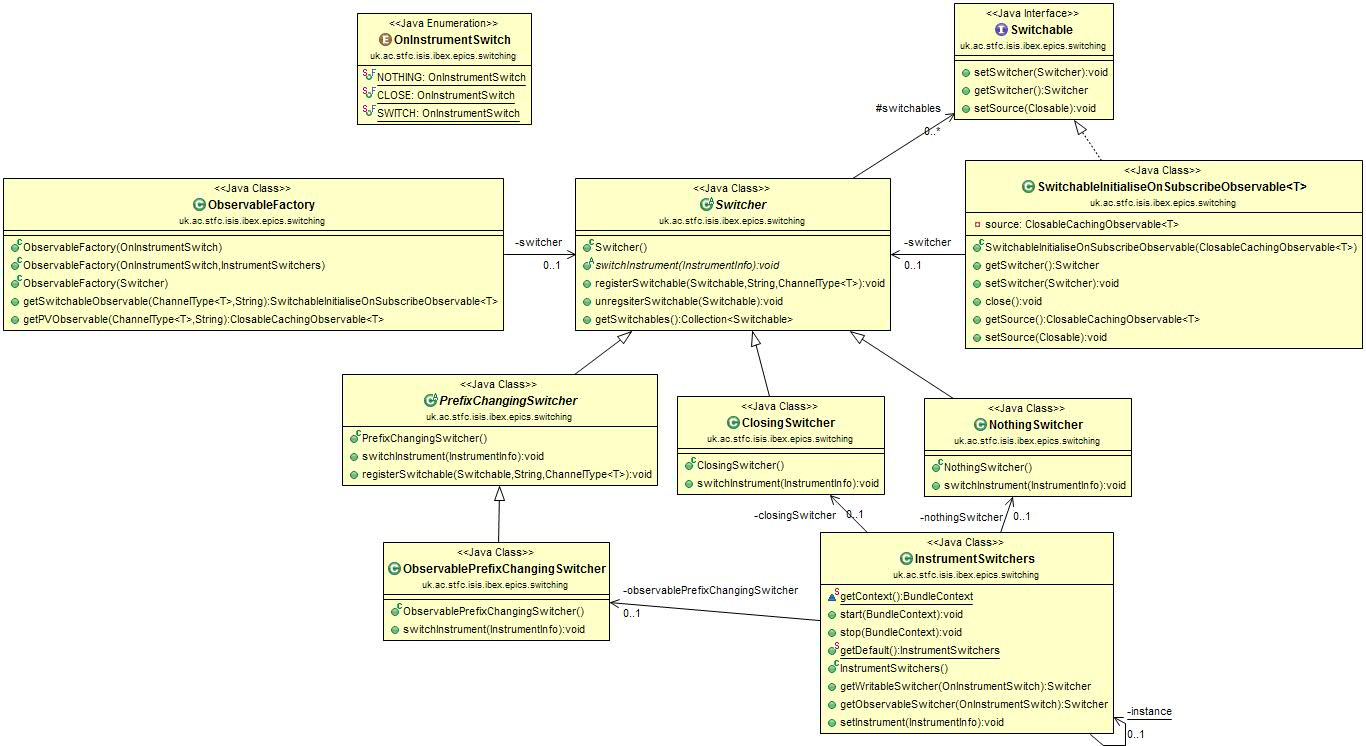
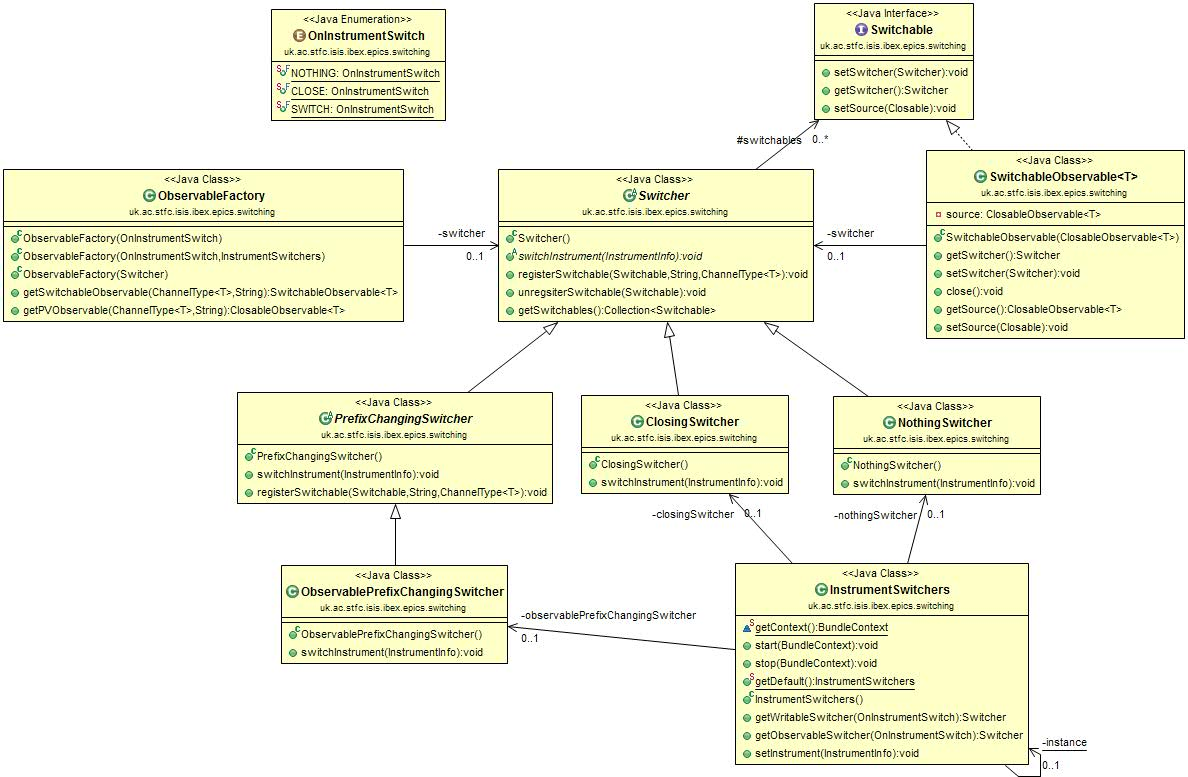
Modified to reflect Observable refactoring

Changed region(s): [[0.0, 0.0, 1.0, 1.0], [0.218, 0.0, 0.4049, 0.185]]

diff --git a/pv_switching.rst b/pv_switching.rst
@@ -36,7 +36,7 @@ The proposed solution was to remove the central PVAddressBook class and instead 
 
 2. On initialisation the factory will then query the InstrumentSwitchers class for the specific Switcher class that handles that type of switching
 
-3. The original class that wanted the PV will subsequently ask the factory for PVs, providing the channel type and PV address. This will be provided as a SwitchableInitialiseOnSubscribeObservable that can be subscribed to for value changes.
+3. The original class that wanted the PV will subsequently ask the factory for PVs, providing the channel type and PV address. This will be provided as a SwitchableObservable that can be subscribed to for value changes.
 
 4. Before providing the new Observable object the factory will register it with the relevant Switcher class, each of which holds a list of all Switchable objects that it is required to switch. The Switchable Observable is also provided with a reference to the switcher so that it can remove itself from the relevant list if it is closed for any reason.
 
@@ -59,6 +59,6 @@ The inner workings of the switching code need not be understood to create PVs th
 .. code::
 
     ObservableFactory closingObsFactory = new ObservableFactory(OnInstrumentSwitch.CLOSE);
-    InitialiseOnSubscribeObservable<String> pv =  closingObsFactory.getSwitchableObservable(new StringChannel(), “A_PV_ADDRESS”));
+    ForwardingObservable<String> pv =  closingObsFactory.getSwitchableObservable(new StringChannel(), “A_PV_ADDRESS”));
 
 The above code will create a String type PV observable that will close when the instrument is changed. Subscriptions can now be attached to the PV and will be called when PVs change value.
